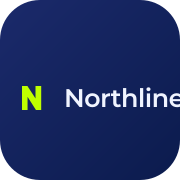
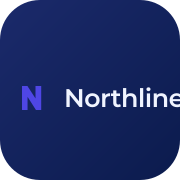
Update branding assets and color scheme across various SVG files and images
- Replaced color values in multiple SVG files to align with the new branding palette, transitioning from lime green to indigo.
- Updated the apple touch icon and Open Graph default image to reflect the new branding.
- Adjusted the web manifest theme color for consistency with the updated design.
- Refined global CSS variables for improved brand color management.

Changed region(s): [[0.1111, 0.4722, 0.25, 0.6111]]

diff --git a/web/src/components/home/home-portfolio-section.tsx b/web/src/components/home/home-portfolio-section.tsx
@@ -40,7 +40,7 @@ export function HomePortfolioSection() {
             />
             <Link
               href="/work"
-              className="hidden shrink-0 text-sm font-semibold text-[var(--color-primary)] transition-colors hover:underline focus-visible:outline-none focus-visible:ring-2 focus-visible:ring-[var(--color-accent)] focus-visible:ring-offset-2 sm:block"
+              className="hidden shrink-0 text-sm font-semibold text-[var(--color-accent)] transition-colors hover:underline focus-visible:outline-none focus-visible:ring-2 focus-visible:ring-[var(--color-accent)] focus-visible:ring-offset-2 sm:block"
             >
               View all work →
             </Link>
@@ -55,8 +55,8 @@ export function HomePortfolioSection() {
                 className={cn(
                   "rounded-full border px-4 py-1.5 text-sm font-medium transition-colors duration-150 focus-visible:outline-none focus-visible:ring-2 focus-visible:ring-[var(--color-accent)] focus-visible:ring-offset-2",
                   activeFilter === tab
-                    ? "border-[var(--color-primary)] bg-[var(--color-primary)] text-white"
-                    : "border-[var(--surface-border)] text-[color:var(--text-secondary)] hover:border-[var(--color-primary)] hover:text-[var(--color-primary)]"
+                    ? "border-[var(--color-accent)] bg-[var(--color-accent)] text-white dark:text-[#0f172a]"
+                    : "border-[var(--surface-border)] text-[color:var(--text-secondary)] hover:border-[var(--color-accent)] hover:text-[var(--color-accent)]"
                 )}
               >
                 {tab}
@@ -80,7 +80,7 @@ export function HomePortfolioSection() {
 
           <Link
             href="/work"
-            className="mt-8 inline-flex text-sm font-semibold text-[var(--color-primary)] transition-colors hover:underline focus-visible:outline-none focus-visible:ring-2 focus-visible:ring-[var(--color-accent)] focus-visible:ring-offset-2 sm:hidden"
+            className="mt-8 inline-flex text-sm font-semibold text-[var(--color-accent)] transition-colors hover:underline focus-visible:outline-none focus-visible:ring-2 focus-visible:ring-[var(--color-accent)] focus-visible:ring-offset-2 sm:hidden"
           >
             View all work →
           </Link>

diff --git a/web/src/app/globals.css b/web/src/app/globals.css
@@ -29,7 +29,9 @@
   --color-border: var(--border);
   --color-destructive: var(--destructive);
   --color-accent-foreground: var(--accent-foreground);
-  --color-accent: var(--accent);
+  --color-brand: var(--color-accent);
+  --color-brand-strong: var(--color-accent-strong);
+  --color-brand-muted: var(--color-accent-muted);
   --color-muted-foreground: var(--muted-foreground);
   --color-muted: var(--muted);
   --color-secondary-foreground: var(--secondary-foreground);
